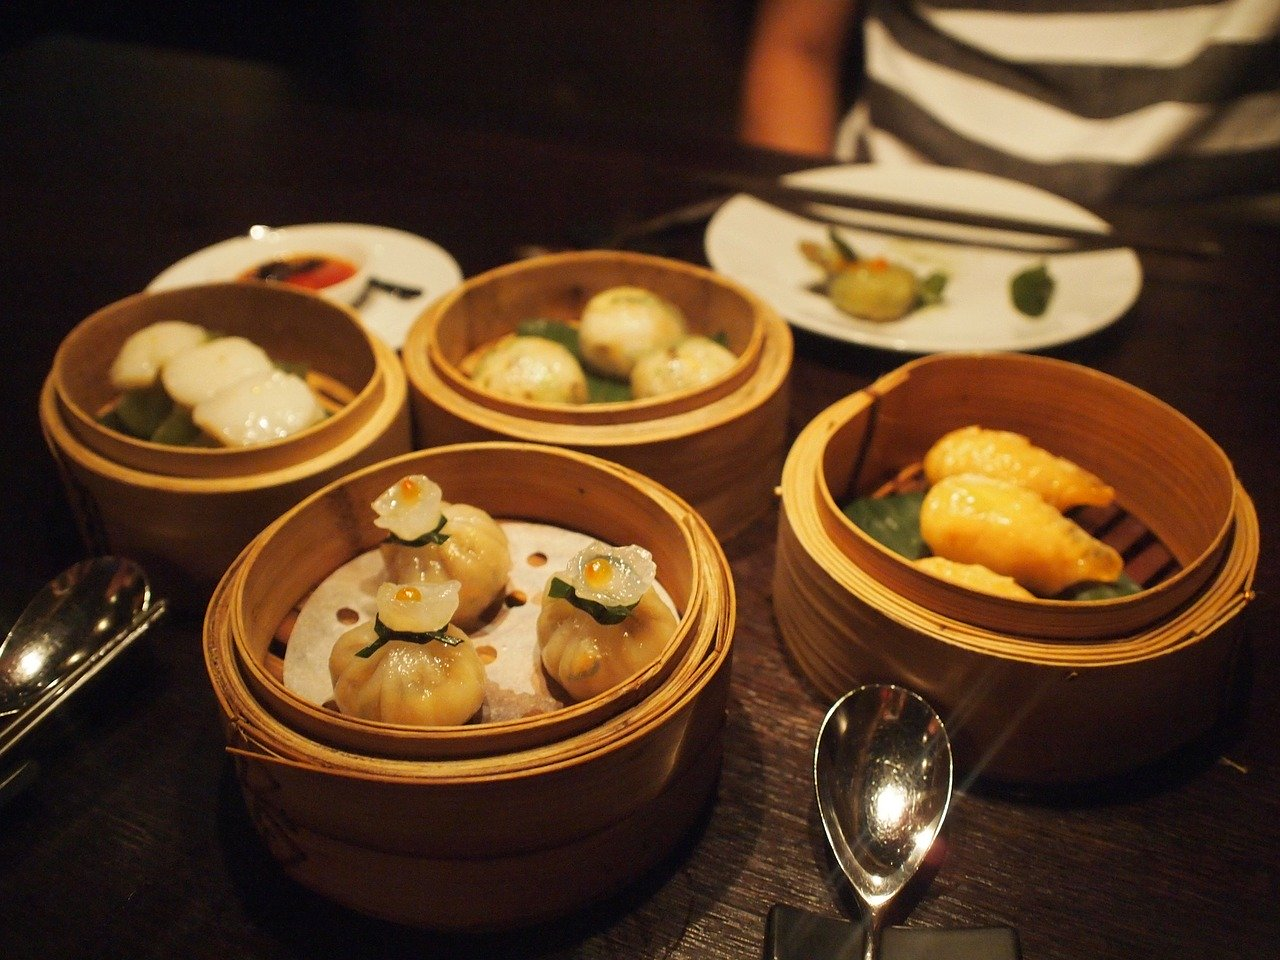
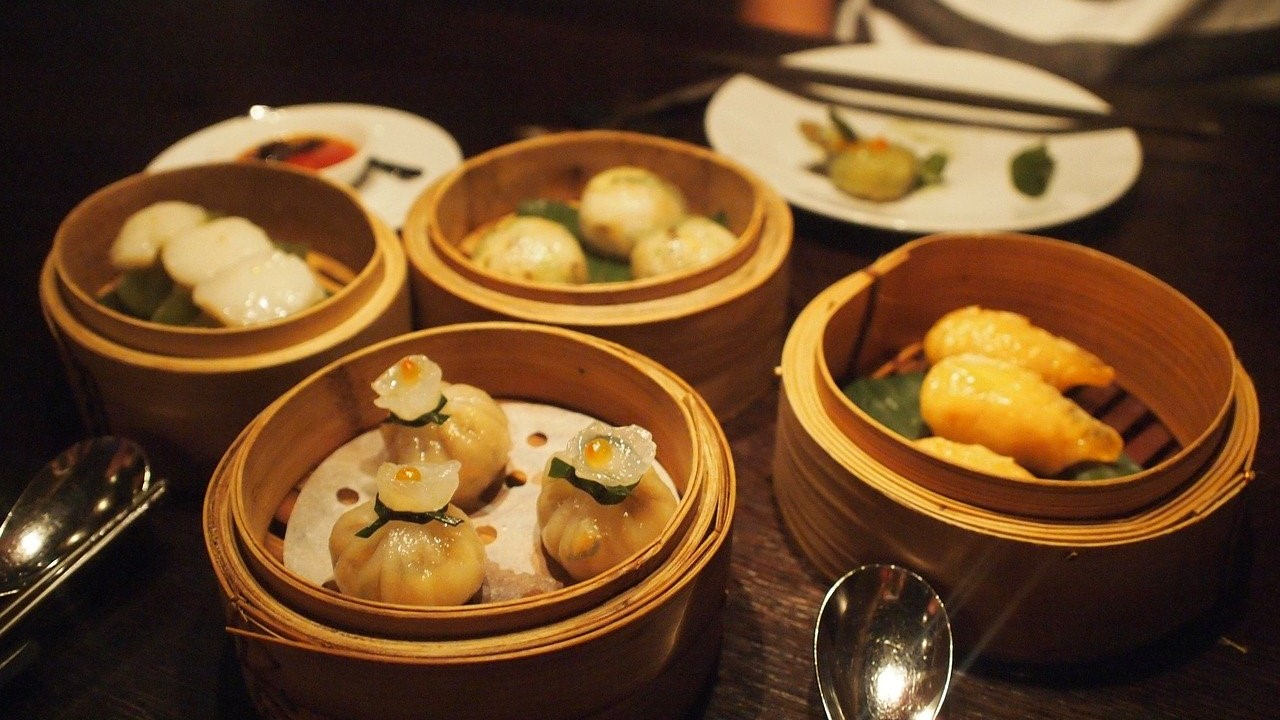
Redimensionné les images du carousel
problème de dimensions réglé

diff --git a/photos.html b/photos.html
@@ -65,67 +65,67 @@
         <!-- Wrapper for slides -->
         <div class="carousel-inner">
           <div class="carousel-item active">
-            <img class="d-block w-100 img-fluid" src="assets/img/chinese-food-210101_1280.jpg" alt="Nourriture chinoise">
+            <img class="d-block w-100" src="assets/img/chinese-food-210101_1280.jpg" alt="Nourriture chinoise">
           </div>
 
           <div class="carousel-item">
-            <img class="d-block w-100 img-fluid" src="assets/img/dumplings-632206_1280.jpg" alt="Nourriture chinoise">
+            <img class="d-block w-100" src="assets/img/dumplings-632206_1280.jpg" alt="Nourriture chinoise">
           </div>
 
           <div class="carousel-item">
-            <img class="d-block w-100 img-fluid" src="assets/img/food-1050813_1280.jpg" alt="Nourriture chinoise">
+            <img class="d-block w-100" src="assets/img/food-1050813_1280.jpg" alt="Nourriture chinoise">
           </div>
 
           <div class="carousel-item">
-            <img class="d-block w-100 img-fluid" src="assets/img/sushi-2856545_1280.jpg" alt="Nourriture chinoise">
+            <img class="d-block w-100" src="assets/img/sushi-2856545_1280.jpg" alt="Nourriture chinoise">
           </div>
 
           <div class="carousel-item">
-            <img class="d-block w-100 img-fluid" src="assets/img/great-wall-3022907_1280.jpg" alt="Nourriture chinoise">
+            <img class="d-block w-100" src="assets/img/great-wall-3022907_1280.jpg" alt="Nourriture chinoise">
           </div>
 
           <div class="carousel-item">
-            <img class="d-block w-100 img-fluid" src="assets/img/restaurant-718310_1280.jpg" alt="Restaurant chinois">
+            <img class="d-block w-100" src="assets/img/restaurant-718310_1280.jpg" alt="Restaurant chinois">
           </div>
 
           <div class="carousel-item">
-            <img class="d-block w-100 img-fluid" src="assets/img/lugu-lake-4648775_1280.jpg" alt="Lac Chine">
+            <img class="d-block w-100" src="assets/img/lugu-lake-4648775_1280.jpg" alt="Lac Chine">
           </div>
 
           <div class="carousel-item">
-            <img class="d-block w-100 img-fluid" src="assets/img/panda-3857754_1280.jpg" alt="Panda">
+            <img class="d-block w-100" src="assets/img/panda-3857754_1280.jpg" alt="Panda">
           </div>
 
           <div class="carousel-item">
-            <img class="d-block w-100 img-fluid" src="assets/img/empanadas-1904926_1280.jpg" alt="Nourriture mexicaine">
+            <img class="d-block w-100" src="assets/img/empanadas-1904926_1280.jpg" alt="Nourriture mexicaine">
           </div>
 
           <div class="carousel-item">
-            <img class="d-block w-100 img-fluid" src="assets/img/food-1090619_1280.jpg" alt="Nourriture mexicaine">
+            <img class="d-block w-100" src="assets/img/food-1090619_1280.jpg" alt="Nourriture mexicaine">
           </div>
 
           <div class="carousel-item">
-            <img class="d-block w-100 img-fluid" src="assets/img/mexican-food-1359817_1280.jpg" alt="Nourriture mexicaine">
+            <img class="d-block w-100" src="assets/img/mexican-food-1359817_1280.jpg" alt="Nourriture mexicaine">
           </div>
 
           <div class="carousel-item">
-            <img class="d-block w-100 img-fluid" src="assets/img/mexican-food-1359819_1280.jpg" alt="Nourriture mexicaine">
+            <img class="d-block w-100" src="assets/img/mexican-food-1359819_1280.jpg" alt="Nourriture mexicaine">
           </div>
 
           <div class="carousel-item">
-            <img class="d-block w-100 img-fluid" src="assets/img/tacos-1904921_1280.jpg" alt="Nourriture mexicaine">
+            <img class="d-block w-100" src="assets/img/tacos-1904921_1280.jpg" alt="Nourriture mexicaine">
           </div>
 
           <div class="carousel-item">
-            <img class="d-block w-100 img-fluid" src="assets/img/restaurant-2334200_1280.jpg" alt="Restaurant mexicain">
+            <img class="d-block w-100" src="assets/img/restaurant-2334200_1280.jpg" alt="Restaurant mexicain">
           </div>
 
           <div class="carousel-item">
-            <img class="d-block w-100 img-fluid" src="assets/img/mexico-853048_1280.jpg" alt="Pyramide pré-colombienne">
+            <img class="d-block w-100" src="assets/img/mexico-853048_1280.jpg" alt="Pyramide pré-colombienne">
           </div>
 
           <div class="carousel-item">
-            <img class="d-block w-100 img-fluid" src="assets/img/day-of-the-dead-568012_1280.jpg" alt="Jour des morts au Mexique">
+            <img class="d-block w-100" src="assets/img/day-of-the-dead-568012_1280.jpg" alt="Jour des morts au Mexique">
           </div>
 
         </div>
@@ -140,7 +140,7 @@
           <span class="sr-only">Next</span>
         </a>
       </div>
-    </section>
+    </section >
 
   </main>
 
